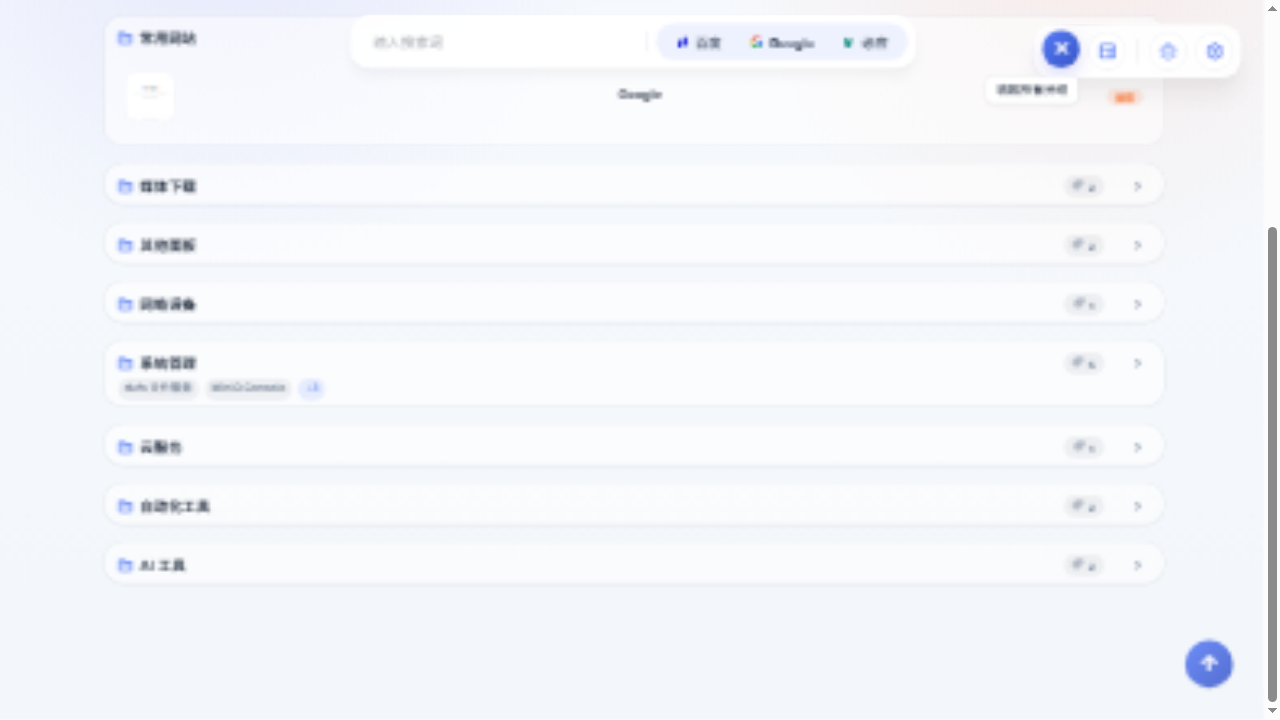
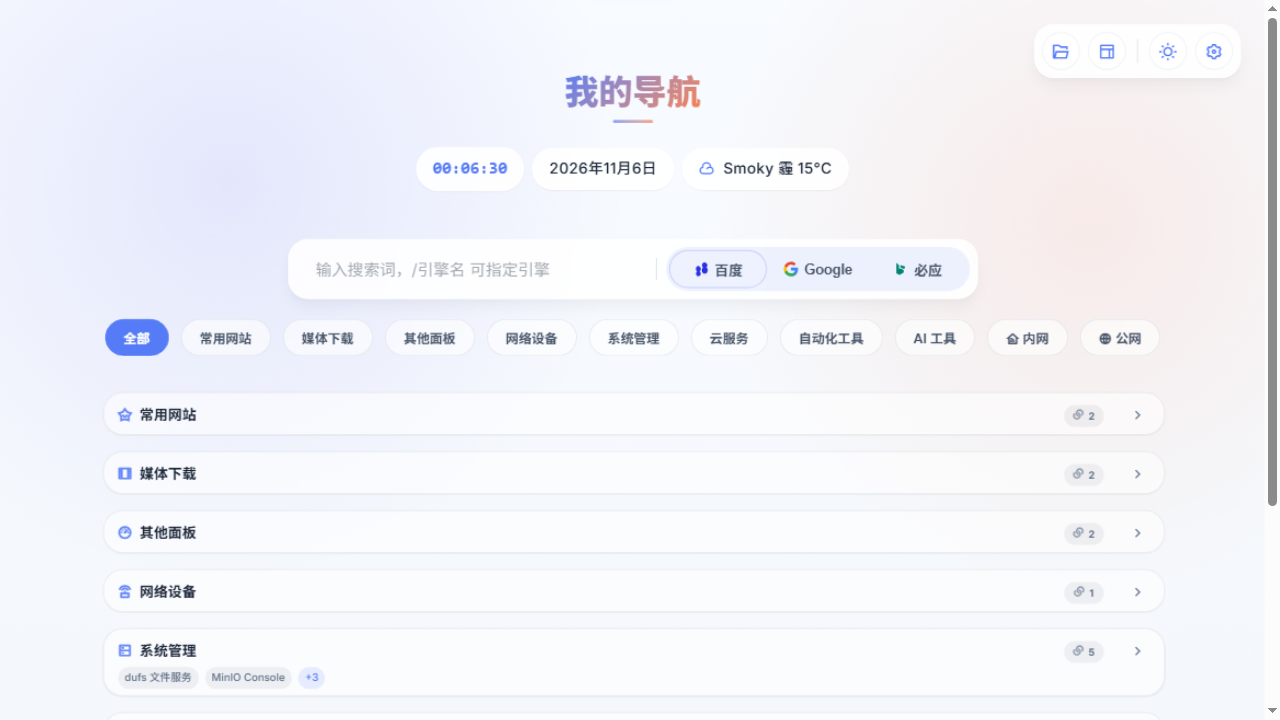
docs: refresh day-mode screenshot for horizontal grid layout (R15)

diff --git a/docs/POLISH_LOG.md b/docs/POLISH_LOG.md
@@ -22,7 +22,7 @@
 | 12 | 拖拽顺序持久化(customTileOrder) | 功能 | ✅ |
 | 13 | 主题色板默认色标注(靛蓝=默认) | 体验 | ✅ |
 | 14 | README 竞品功能对比表 | 文档 | ✅ |
-| 15 | README 日间截图重拍(横向网格) | 文档 | ⬜ |
+| 15 | README 日间截图重拍(横向网格) | 文档 | ✅ |
 | 16 | 右键菜单键盘导航(↑↓/Enter) | 体验 | ✅ |
 | 17 | 搜索引擎弹窗 prefix 帮助文案 | 体验 | ✅ |
 | 18 | 扫描器 --probe 并发/超时参数化 | 功能 | ✅ |
